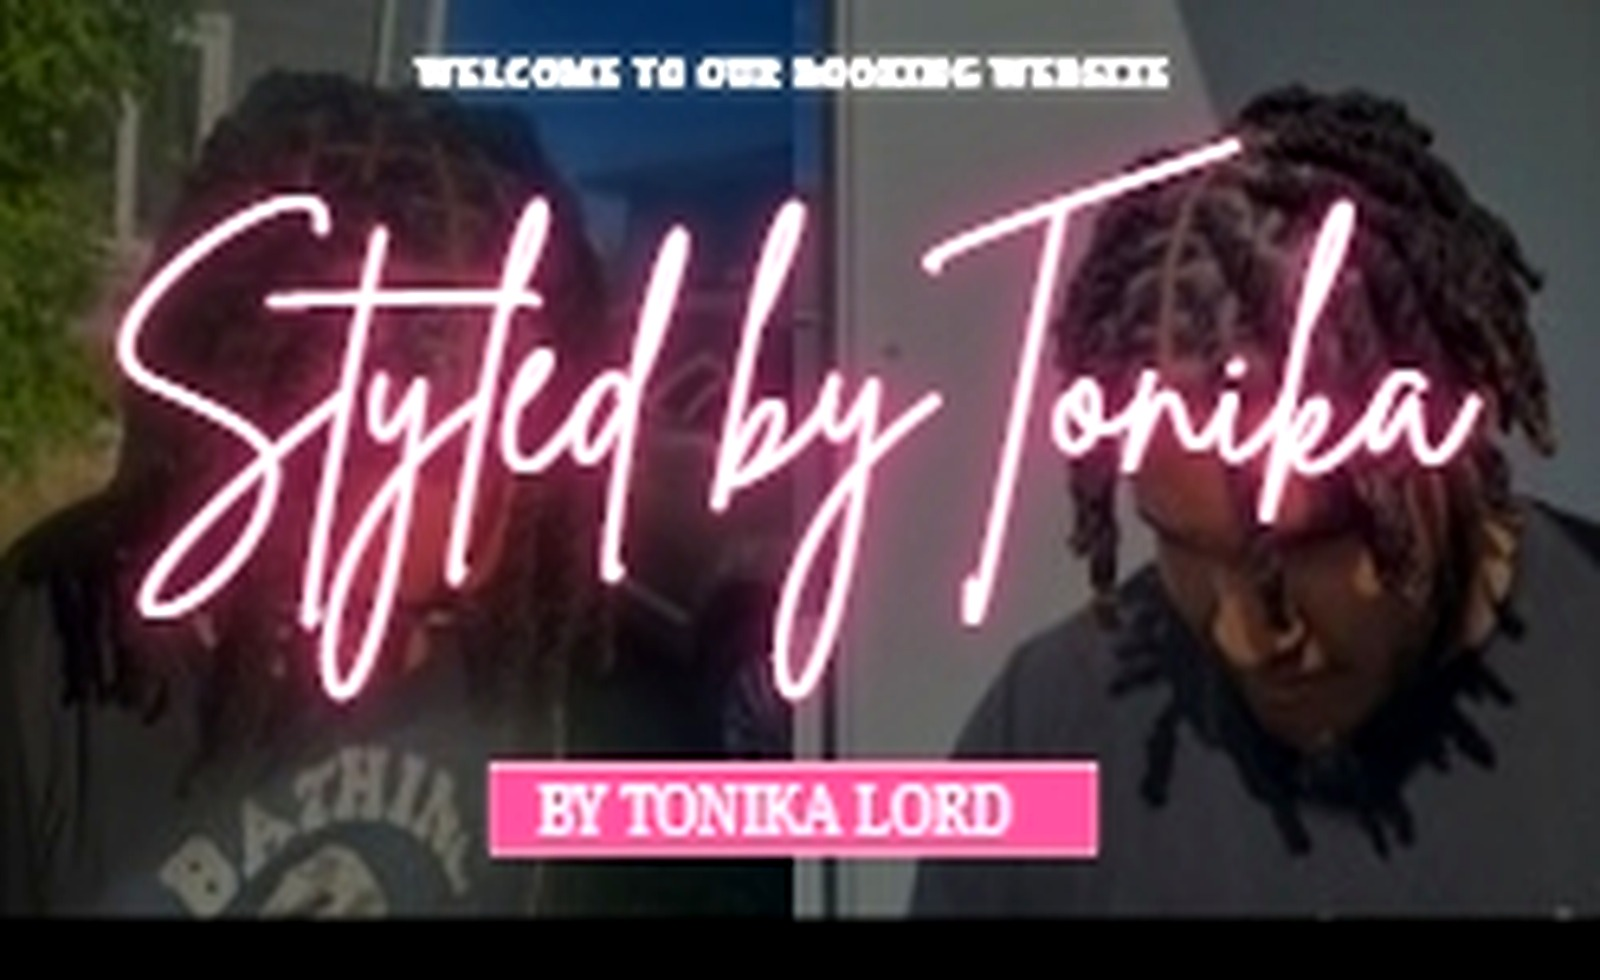
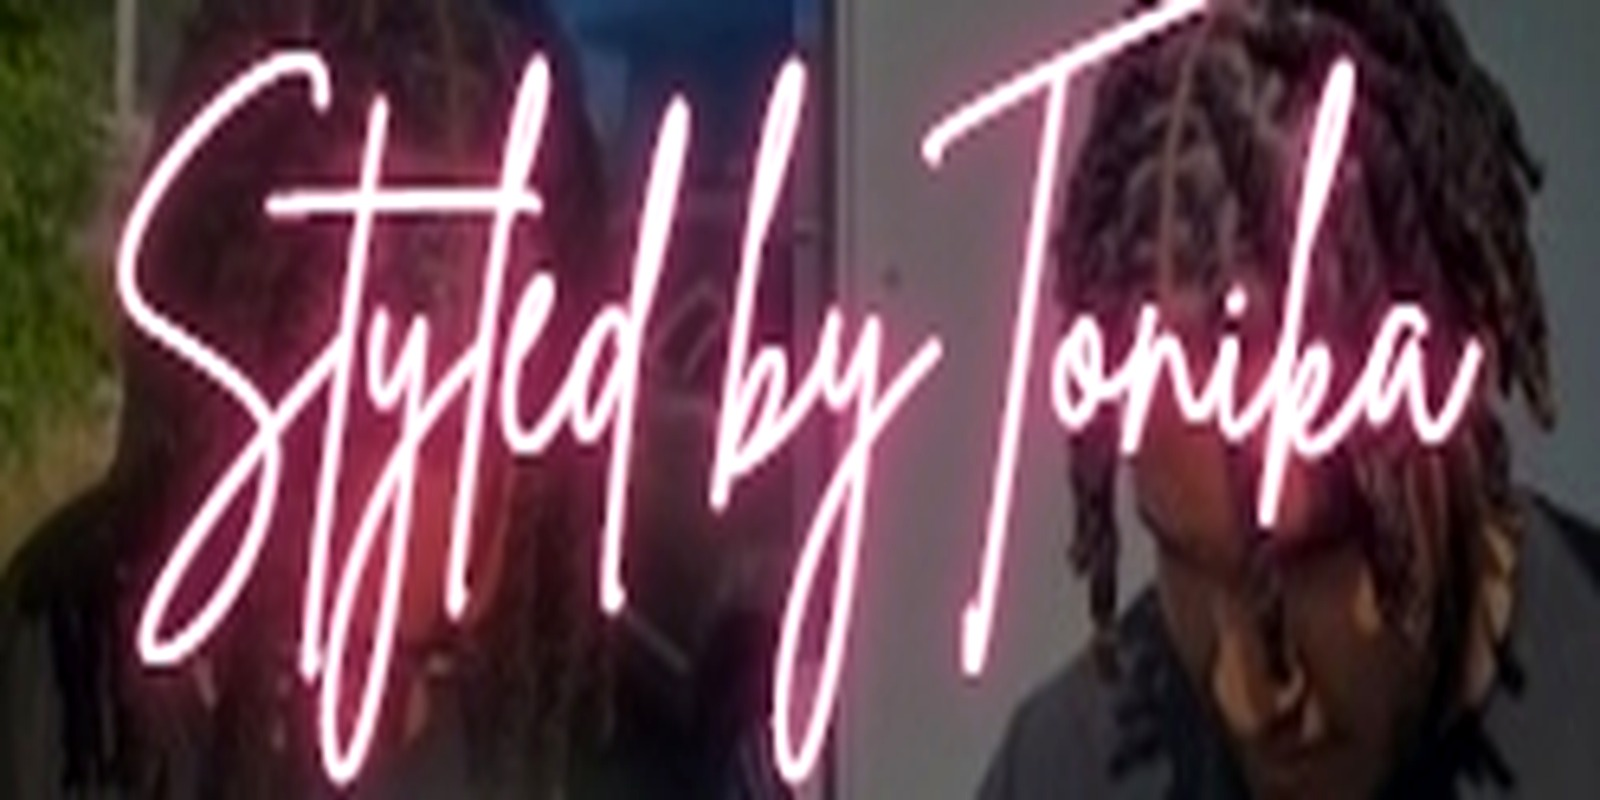
h

diff --git a/styles.css b/styles.css
@@ -92,8 +92,8 @@ ul {
   height: 100%;
   flex: none;
   object-fit: cover;
-  object-position: 50% 38%;
-  filter: brightness(0.92) contrast(1.12) saturate(1.06);
+  object-position: 50% 28%;
+  filter: brightness(0.95) contrast(1.12) saturate(1.08);
 }
 
 .hero-veil {
@@ -101,19 +101,40 @@ ul {
   inset: 0;
   z-index: -1;
   background: radial-gradient(
-    ellipse 58% 70% at 50% 44%,
-    rgba(0, 0, 0, 0.9) 0%,
-    rgba(0, 0, 0, 0.62) 42%,
-    rgba(0, 0, 0, 0.22) 68%,
-    rgba(0, 0, 0, 0.06) 100%
+    ellipse 52% 62% at 50% 42%,
+    rgba(0, 0, 0, 0.55) 0%,
+    rgba(0, 0, 0, 0.12) 70%,
+    transparent 100%
   );
   pointer-events: none;
 }
 
 .hero-content {
   position: relative;
-  padding: 3.4rem 2rem 3rem;
+  z-index: 1;
+  padding: 3.2rem 2.4rem 2.8rem;
   max-width: 56rem;
+}
+
+.hero-content::before {
+  content: "";
+  position: absolute;
+  left: 50%;
+  top: 50%;
+  width: 100vw;
+  height: 140%;
+  transform: translate(-50%, -50%);
+  background: linear-gradient(
+    to right,
+    rgba(0, 0, 0, 0.15) 0%,
+    rgba(0, 0, 0, 0.92) 8%,
+    #000 16%,
+    #000 84%,
+    rgba(0, 0, 0, 0.92) 92%,
+    rgba(0, 0, 0, 0.15) 100%
+  );
+  z-index: -1;
+  pointer-events: none;
 }
 
 .hero h1,
@@ -225,8 +246,8 @@ a {
   width: 100%;
   height: 100%;
   object-fit: cover;
-  object-position: 48% 22%;
-  transform: scale(1.22);
+  object-position: 48% 20%;
+  transform: scale(1.32);
   filter: none;
   border: 0;
   box-shadow: none;
@@ -318,6 +339,8 @@ a {
 }
 
 .hours-grid {
+  position: relative;
+  z-index: 1;
   width: min(100%, 64rem);
   display: grid;
   grid-template-columns: 1fr 1fr;

diff --git a/index.html b/index.html
@@ -7,12 +7,12 @@
   <link rel="preconnect" href="https://fonts.googleapis.com" />
   <link rel="preconnect" href="https://fonts.gstatic.com" crossorigin />
   <link href="https://fonts.googleapis.com/css2?family=Great+Vibes&family=Montserrat:wght@400;500;600;700&family=Cormorant+Garamond:ital,wght@0,400;0,500;1,400&display=swap" rel="stylesheet" />
-  <link rel="stylesheet" href="styles.css?v=22" />
+  <link rel="stylesheet" href="styles.css?v=25" />
 </head>
 <body>
   <section class="hero">
     <div class="hero-photos one" aria-hidden="true">
-      <img src="images/hero-from-canva.jpg?v=16" alt="" />
+      <img src="images/hero-from-canva.jpg?v=18" alt="" />
     </div>
     <div class="hero-veil"></div>
     <div class="hero-content">

diff --git a/book.html b/book.html
@@ -7,7 +7,7 @@
   <link rel="preconnect" href="https://fonts.googleapis.com" />
   <link rel="preconnect" href="https://fonts.gstatic.com" crossorigin />
   <link href="https://fonts.googleapis.com/css2?family=Great+Vibes&family=Montserrat:wght@400;500;600;700&family=Cormorant+Garamond:ital,wght@0,400;0,500;1,400&display=swap" rel="stylesheet" />
-  <link rel="stylesheet" href="styles.css?v=22" />
+  <link rel="stylesheet" href="styles.css?v=25" />
 </head>
 <body class="book-page">
   <header class="book-top">

diff --git a/_crop_clean.py b/_crop_clean.py
@@ -37,7 +37,7 @@ w2, h2 = p2.size
 print("p1", w, h, "p2", w2, h2)
 
 # Full hero band; CSS darkens the center so baked title stays hidden.
-save(p1.crop((0, 0, w, 135)), "hero-from-canva.jpg", (1600, 980))
+save(p1.crop((0, 22, w, 98)), "hero-from-canva.jpg", (1600, 800))
 save(p1.crop((0, 102, int(w * 0.20), 126)), "hero-locs-left.jpg", (720, 1080))
 save(p1.crop((int(w * 0.82), 102, w, 126)), "hero-locs-right.jpg", (720, 1080))
 
